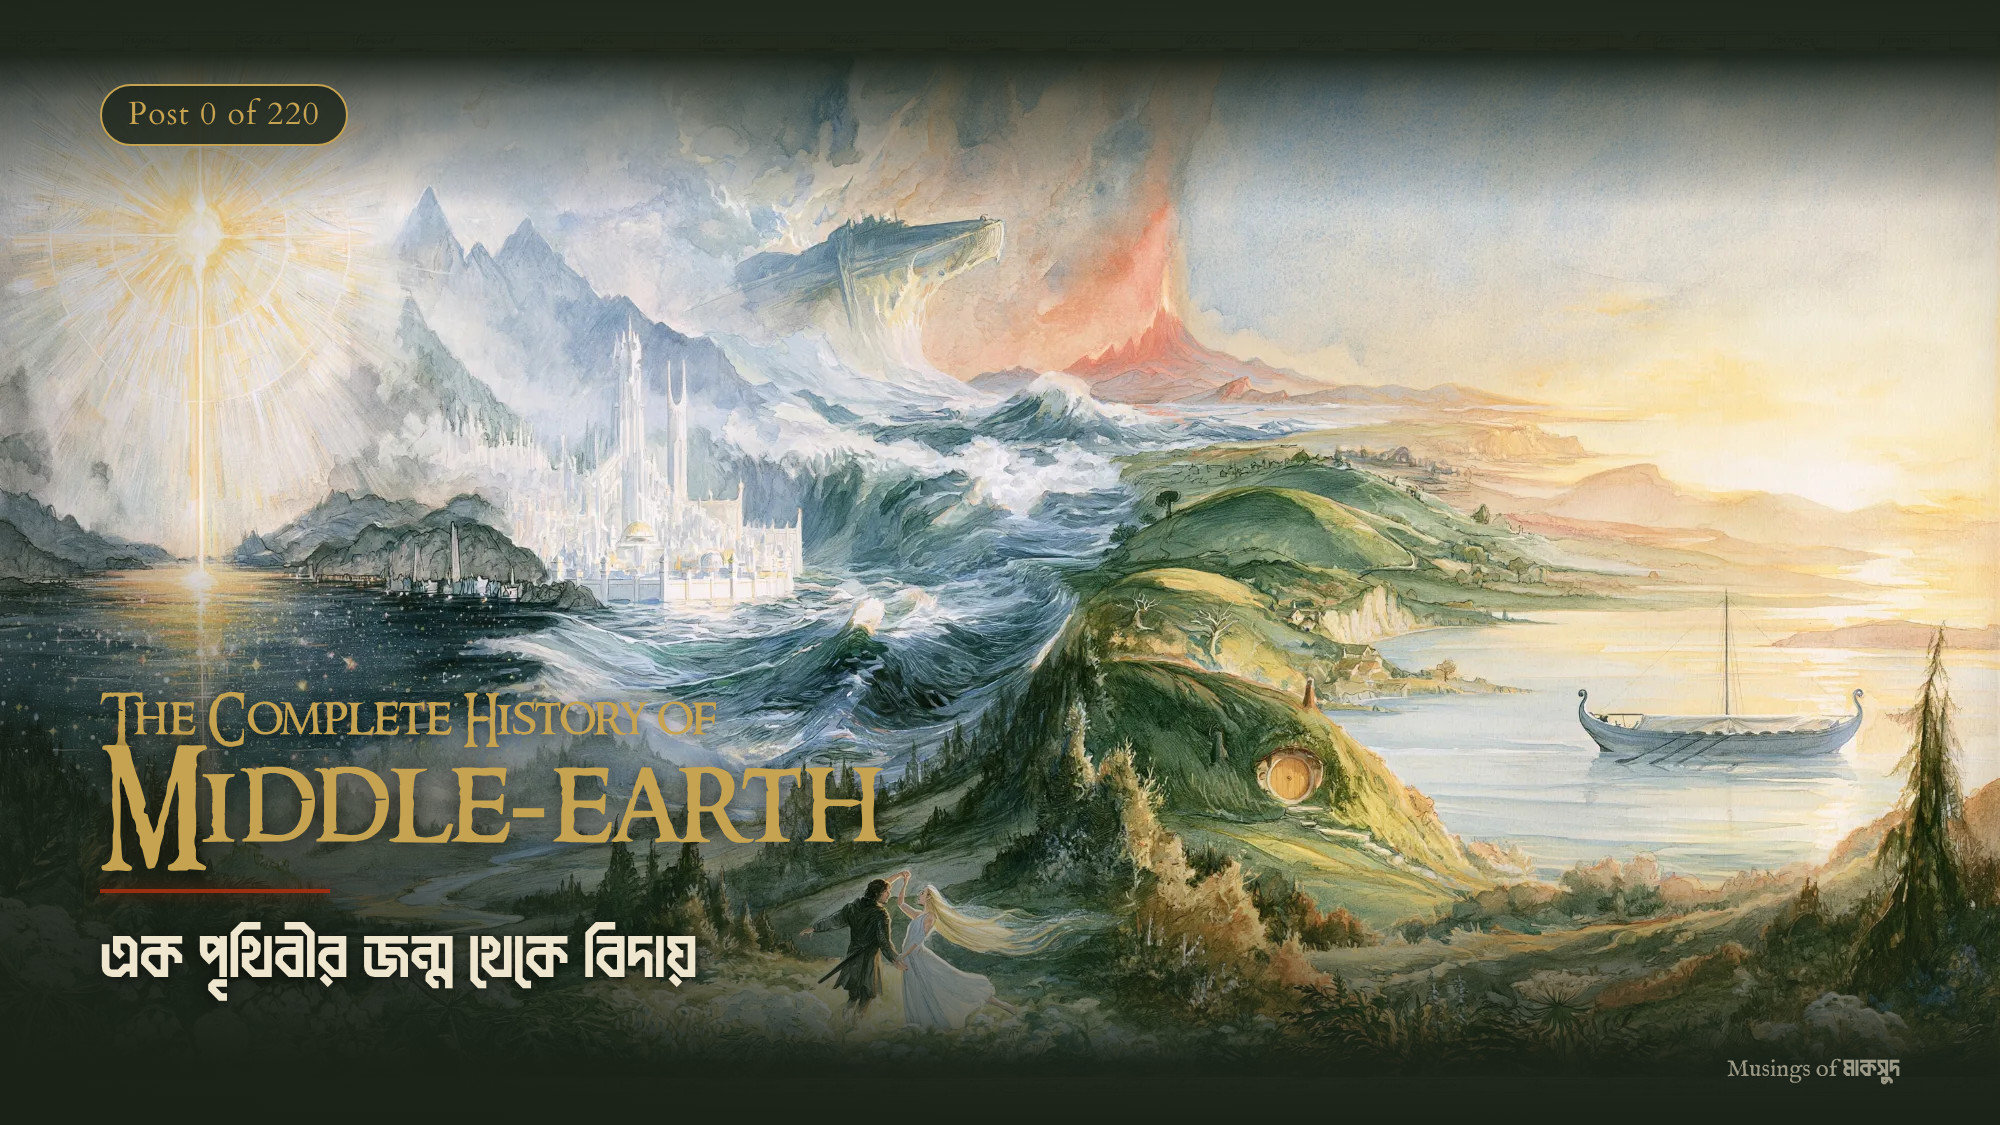
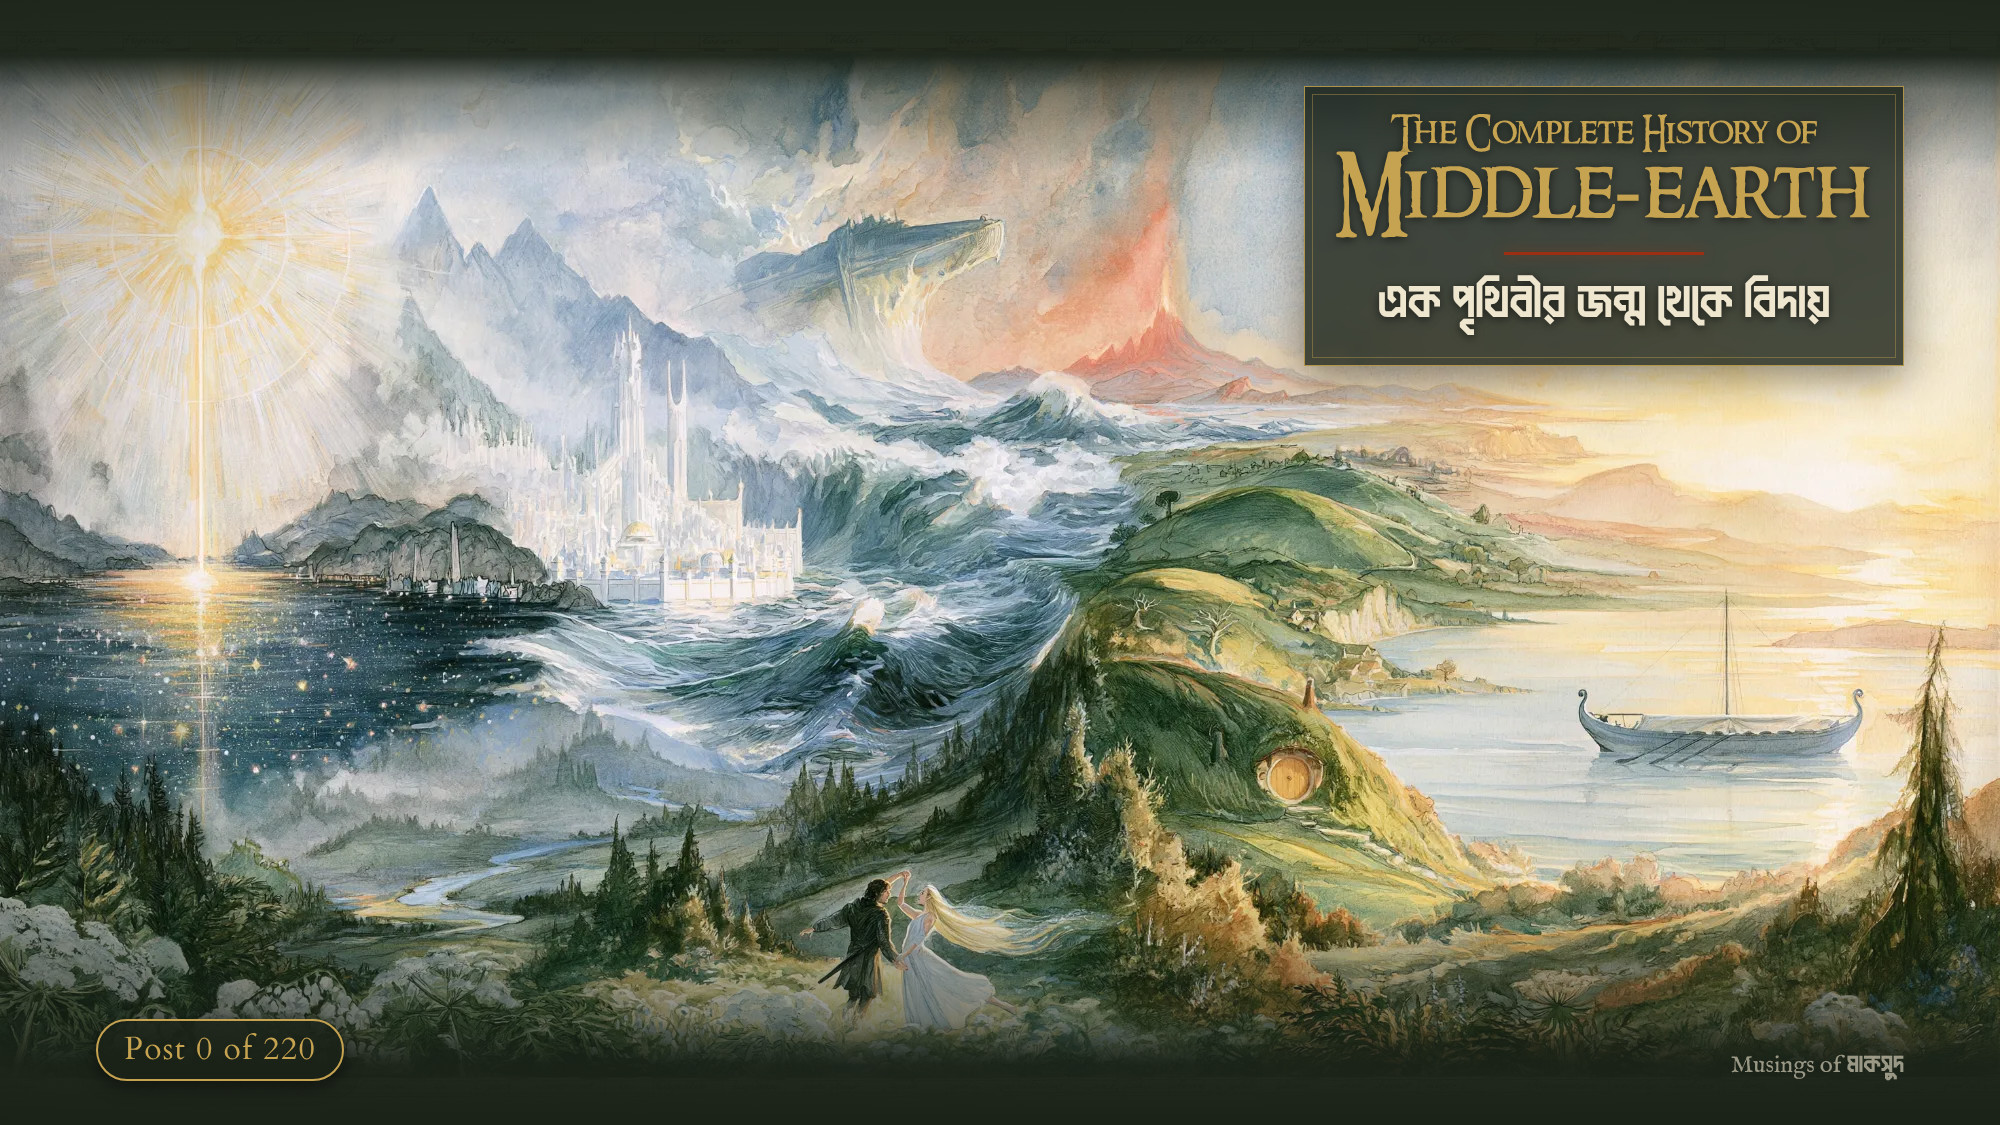
Move Post 0 title to top-right panel and series badge to bottom-left
Title, subtitle and the ember divider sit in a dark translucent panel in
the open sky, clear of the star, peaks, the wave, the volcano and the
couple. The Post N of 220 badge now has a fixed bottom-left slot.

Claude-Session: https://claude.ai/code/session_014wYo4VJuxYnBG1jM4aApjo

diff --git a/middle-earth-history/post-000/source/post.html b/middle-earth-history/post-000/source/post.html
@@ -2,8 +2,8 @@
 <html><head><meta charset="utf-8">
 <style>
 @font-face{font-family:Ringbearer;src:url(fonts/Ringbearer.ttf)}
-@font-face{font-family:"IM Fell English";src:url(fonts/IMFellEnglish-400.ttf)}
 @font-face{font-family:Cardo;src:url(fonts/Cardo-400.ttf)}
+@font-face{font-family:"IM Fell English";src:url(fonts/IMFellEnglish-400.ttf)}
 @font-face{font-family:Dabanol;src:url(fonts/Dabanol.ttf)}
 :root{--bg:#1A2218;--surface:#4F6B3A;--title:#C6A350;--accent:#9C2F12;--highlight:#C9CED6;--text:#EFE6CF}
 *{margin:0;padding:0;box-sizing:border-box}
@@ -11,19 +11,24 @@ html,body{width:2000px;height:1125px;background:var(--bg);overflow:hidden}
 .canvas{position:relative;width:2000px;height:1125px}
 .art{position:absolute;left:0;top:0;width:2000px;height:1120px}
 .layer{position:absolute;inset:0;pointer-events:none}
-/* hide the scroll borders, gentle vignette, scrim behind the text block */
-.top{background:linear-gradient(to bottom,rgba(26,34,24,.97) 0,rgba(26,34,24,.95) 56px,rgba(26,34,24,.55) 100px,rgba(26,34,24,0) 210px)}
-.bottom{background:linear-gradient(to top,rgba(26,34,24,1) 0,rgba(26,34,24,.96) 60px,rgba(26,34,24,.6) 110px,rgba(26,34,24,0) 280px)}
-.corner{background:radial-gradient(ellipse 980px 620px at 0% 100%,rgba(26,34,24,.93) 0%,rgba(26,34,24,.78) 45%,rgba(26,34,24,0) 100%)}
-.vignette{background:radial-gradient(ellipse 75% 80% at 55% 45%,rgba(26,34,24,0) 60%,rgba(26,34,24,.5) 100%)}
-.badge{position:absolute;left:100px;top:84px;font-family:Cardo;font-variant-numeric:lining-nums;letter-spacing:.04em;font-size:32px;line-height:1;color:var(--title);
-  padding:12px 26px 14px;border:2px solid var(--title);border-radius:999px;background:rgba(26,34,24,.82)}
-.block{position:absolute;left:100px;bottom:122px}
-.kicker{font-family:Ringbearer;font-size:52px;line-height:1.05;color:var(--title);text-shadow:0 2px 14px rgba(0,0,0,.65)}
-.title{font-family:Ringbearer;font-size:120px;line-height:1.02;color:var(--title);text-shadow:0 3px 22px rgba(0,0,0,.7),0 0 40px rgba(198,163,80,.18)}
-.rule{width:230px;height:4px;background:var(--accent);margin:20px 0 18px;box-shadow:0 0 14px rgba(156,47,18,.7)}
-.bn{font-family:Dabanol;font-size:66px;line-height:1.4;color:var(--text);text-shadow:0 2px 14px rgba(0,0,0,.7)}
-.sig{position:absolute;right:100px;bottom:40px;font-family:"IM Fell English";font-size:24px;color:rgba(239,230,207,.6)}
+/* hide the painted scroll borders, gentle vignette */
+.top{background:linear-gradient(to bottom,rgba(26,34,24,.97) 0,rgba(26,34,24,.95) 56px,rgba(26,34,24,.45) 90px,rgba(26,34,24,0) 170px)}
+.bottom{background:linear-gradient(to top,rgba(26,34,24,1) 0,rgba(26,34,24,.96) 60px,rgba(26,34,24,.55) 105px,rgba(26,34,24,0) 230px)}
+.vignette{background:radial-gradient(ellipse 75% 80% at 55% 45%,rgba(26,34,24,0) 62%,rgba(26,34,24,.45) 100%)}
+/* title cartouche in the open sky, clear of the star, peaks, Numenor wave and volcano */
+.panel{position:absolute;right:96px;top:86px;width:600px;padding:26px 30px 28px;text-align:center;
+  background:rgba(26,34,24,.80);backdrop-filter:blur(6px);
+  border:1.5px solid rgba(198,163,80,.85);outline:1px solid rgba(198,163,80,.4);outline-offset:-9px;
+  box-shadow:0 10px 40px rgba(0,0,0,.45)}
+.kicker{font-family:Ringbearer;font-size:36px;white-space:nowrap;line-height:1.1;color:var(--title)}
+.title{font-family:Ringbearer;font-size:82px;white-space:nowrap;line-height:1.02;color:var(--title);text-shadow:0 0 30px rgba(198,163,80,.2)}
+.rule{width:200px;height:3px;background:var(--accent);margin:16px auto 12px;box-shadow:0 0 12px rgba(156,47,18,.6)}
+.bn{font-family:Dabanol;font-size:50px;line-height:1.4;color:var(--text)}
+.kicker,.title,.bn{text-shadow:0 2px 10px rgba(0,0,0,.6)}
+/* fixed series slot: bottom-left on every post */
+.badge{position:absolute;left:96px;bottom:44px;font-family:Cardo;font-variant-numeric:lining-nums;letter-spacing:.04em;font-size:32px;line-height:1;color:var(--title);
+  padding:12px 26px 14px;border:2px solid var(--title);border-radius:999px;background:rgba(26,34,24,.88);box-shadow:0 4px 18px rgba(0,0,0,.5)}
+.sig{position:absolute;right:96px;bottom:44px;font-family:"IM Fell English";font-size:24px;color:rgba(239,230,207,.6)}
 .sig span{font-family:Dabanol;font-size:26px}
 </style></head>
 <body><div class="canvas">
@@ -31,13 +36,12 @@ html,body{width:2000px;height:1125px;background:var(--bg);overflow:hidden}
 <div class="layer vignette"></div>
 <div class="layer top"></div>
 <div class="layer bottom"></div>
-<div class="layer corner"></div>
-<div class="badge">Post 0 of 220</div>
-<div class="block">
+<div class="panel">
   <div class="kicker">The Complete History of</div>
   <div class="title">Middle-earth</div>
   <div class="rule"></div>
   <div class="bn">এক পৃথিবীর জন্ম থেকে বিদায়</div>
 </div>
+<div class="badge">Post 0 of 220</div>
 <div class="sig">Musings of <span>মাকসুদ</span></div>
 </div></body></html>

diff --git a/middle-earth-history/post-000/source/render.js b/middle-earth-history/post-000/source/render.js
@@ -3,5 +3,5 @@ const {chromium}=require('/opt/node22/lib/node_modules/playwright');
 const b=await chromium.launch();const p=await b.newPage({viewport:{width:2000,height:1125}});
 await p.goto('file://'+require('path').resolve(src));await p.evaluate(()=>document.fonts.ready);await p.waitForTimeout(300);
 console.log(await p.evaluate(()=>[...document.fonts].map(f=>f.family+':'+f.status).join(', ')));
-console.log(await p.evaluate(()=>JSON.stringify([...document.querySelectorAll('.badge,.kicker,.title,.bn,.sig')].map(e=>{const r=e.getBoundingClientRect();return [e.className,Math.round(r.left),Math.round(r.top),Math.round(r.right),Math.round(r.bottom)]}))));
+console.log(await p.evaluate(()=>JSON.stringify([...document.querySelectorAll('.panel,.badge,.kicker,.title,.bn,.sig')].map(e=>{const r=e.getBoundingClientRect();return [e.className,Math.round(r.left),Math.round(r.top),Math.round(r.right),Math.round(r.bottom)]}))));
 await p.screenshot({path:out});await b.close();})();
